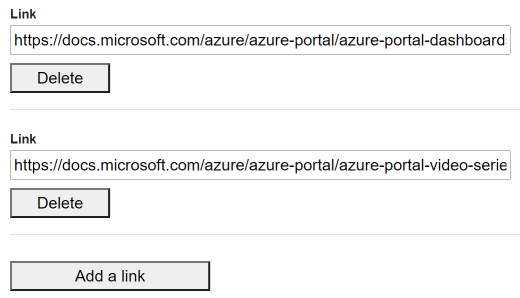
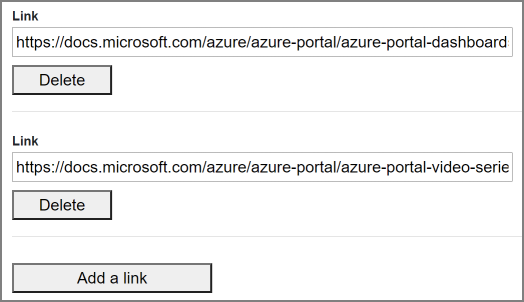
Adding logging in section to instructions.
Adding frame around pictures

Changed region(s): [[0.0, 0.0, 1.0, 1.0]]

diff --git a/instructions/getting-started-synopsis.md b/instructions/getting-started-synopsis.md
@@ -19,6 +19,7 @@ In this step you will use an application called the Synopsis Client. It runs lik
 
 > Click on name of the section to get more detailed information and Screenshots. 
 
+- [Logging in](#logging-in): Before you start you will need to log into the client.
 - [Title](#title): The Synopsis title, which is usually also the name of the page that will be created in the Glossary for this term.
 - [Authors](#authors) : one or more author for the Synopsis.
 - [Description](#short-description) : A short description we'll use later in the video.
@@ -30,6 +31,19 @@ In this step you will use an application called the Synopsis Client. It runs lik
 - [Links to Learn](#links-to-learn): A list of links leading to Microsoft Learn learning paths and modules.
 - [Other Links](#other-links): A list of links leading to other destinations, either on Microsoft' properties or elsewhere.
 - [Script](#script): The script for your video.
+
+## Logging in
+
+You need to log into the Synopsis client when you want to edit a term. The login process needs two pieces of information:
+
+- Your email address: This must be the same email address defined in the Synopsis. After you log in, you have the possibility to change this address in the `authors` section. You can also add other authors as needed.
+- The name of the file you want to edit.
+
+> We ask that you enter the file name and NOT the synopsis title. The file name is the last part of the URL you received in the confirmation email. For example in `https://www.ms-glossary-synopsis.cloud?edit=azure-portal`, the file name is `azure-portal`.
+
+![Log in screen](./images/synopsis-client/2021-01-27_11-28-09.png)
+
+> After you are logged in, you can also log out. However please note that logging out will lose all your local changes. Make sure to `Commit to cloud` before you log out.
 
 ## Common elements
 
